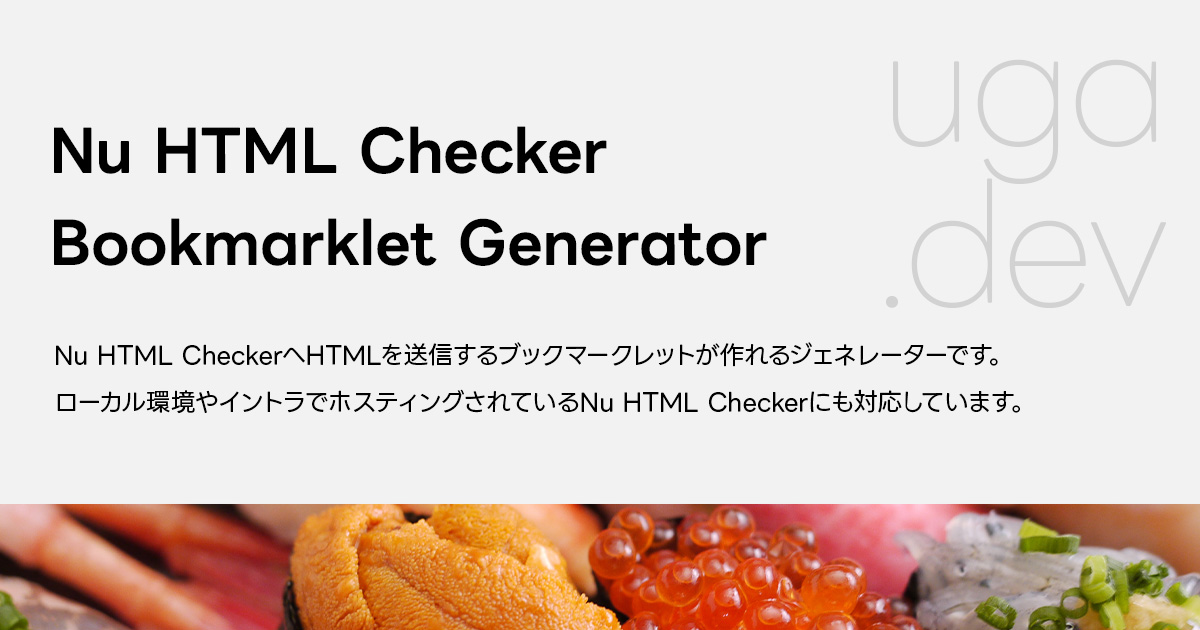
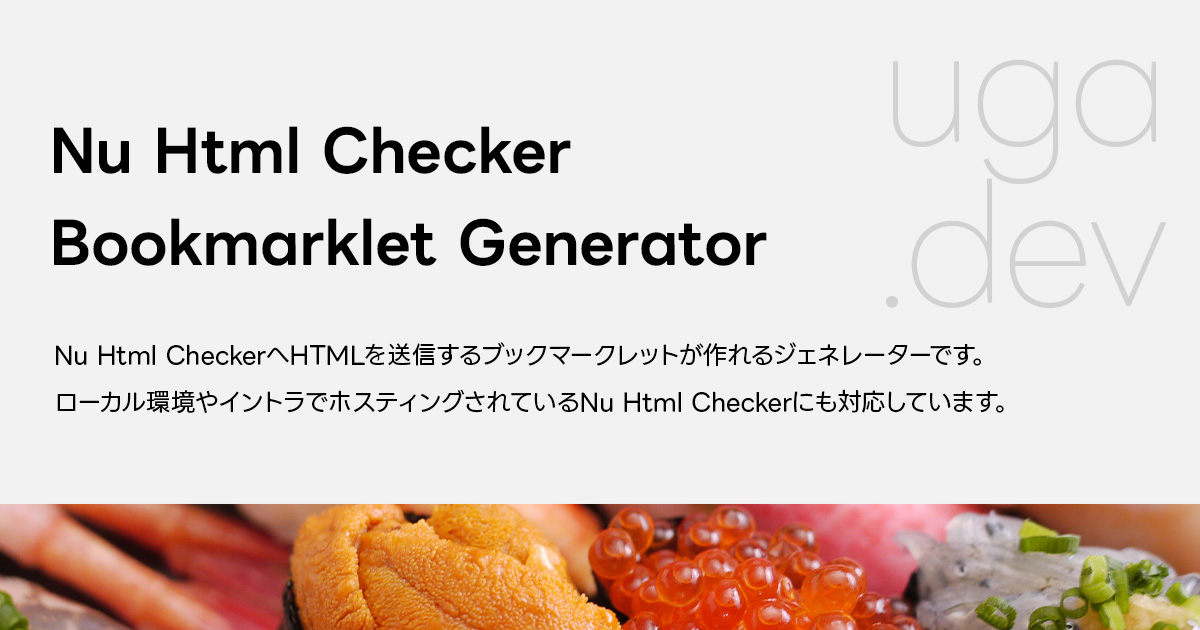
fix: move bookmarklet options to query params to apply on first response

Changed region(s): [[0.0925, 0.5429, 0.8633, 0.6635], [0.1542, 0.181, 0.5242, 0.3016]]

diff --git a/src/app/(ja)/(common)/tools/nu-bookmarklet-generator/Client/NuValidatorBookmarkletGenerator.tsx b/src/app/(ja)/(common)/tools/nu-bookmarklet-generator/Client/NuValidatorBookmarkletGenerator.tsx
@@ -30,19 +30,34 @@ const optionsValueMap: Record<keyof Options, string> = {
   level: 'warning',
 };
 
-const createBookmarklet = (url: string, type: 'ssr' | 'csr', options: Options) => {
-  const optionsString = objectKeys(options)
-    .map((optionName) => {
-      if (options[optionName]) {
-        return `f('${optionName}','${optionsValueMap[optionName]}');`;
-      }
-    })
-    .join('');
+const createBookmarklet = (argUrl: string, type: 'ssr' | 'csr', options: Options) => {
+  try {
+    const url = new URL(argUrl);
 
-  if (type === 'ssr') {
-    return `javascript:(async()=>{let a=document,b=await fetch(location.href).then(r=>r.text()),c=a.createElement('form'),f=(d,e)=>{let b=a.createElement('textarea');b.name=d;b.value=e;c.append(b)};c.method='POST';c.action='${url}';c.enctype='multipart/form-data';c.target='_blank';${optionsString}f('content',b);a.body.append(c);c.submit();c.remove()})()`;
+    objectKeys(options).forEach((optionName) => {
+      if (options[optionName]) {
+        url.searchParams.set(optionName, optionsValueMap[optionName]);
+      } else {
+        url.searchParams.delete(optionName);
+      }
+    });
+
+    const href = url.toString();
+    const optionsString = objectKeys(options)
+      .map((optionName) => {
+        if (options[optionName]) {
+          return `f('${optionName}','${optionsValueMap[optionName]}');`;
+        }
+      })
+      .join('');
+
+    if (type === 'ssr') {
+      return `javascript:(async()=>{let a=document,b=await fetch(location.href).then(r=>r.text()),c=a.createElement('form'),f=(d,e)=>{let b=a.createElement('textarea');b.name=d;b.value=e;c.append(b)};c.method='POST';c.action='${href}';c.enctype='multipart/form-data';c.target='_blank';${optionsString}f('content',b);a.body.append(c);c.submit();c.remove()})()`;
+    }
+    return `javascript:(()=>{let a=document,b=c=>{let d='';for(c=c.firstChild;c;c=c.nextSibling)switch(c.nodeType){case 1:d+=c.outerHTML;break;case 3:d+=c.nodeValue;break;case 4:d+='<![CDATA['+c.nodeValue+']]>';break;case 8:d+='<!--'+c.nodeValue+'-->';break;case 10:d+='<!DOCTYPE '+c.name+'>\\n'}return d},c=a.createElement('form'),f=(d,e)=>{let b=a.createElement('textarea');b.name=d;b.value=e;c.append(b)};c.method='POST';c.action='${href}';c.enctype='multipart/form-data';c.target='_blank';${optionsString}f('content',b(a));a.body.append(c);c.submit();c.remove()})()`;
+  } catch {
+    return 'URLが不正です。';
   }
-  return `javascript:(()=>{let a=document,b=c=>{let d='';for(c=c.firstChild;c;c=c.nextSibling)switch(c.nodeType){case 1:d+=c.outerHTML;break;case 3:d+=c.nodeValue;break;case 4:d+='<![CDATA['+c.nodeValue+']]>';break;case 8:d+='<!--'+c.nodeValue+'-->';break;case 10:d+='<!DOCTYPE '+c.name+'>\\n'}return d},c=a.createElement('form'),f=(d,e)=>{let b=a.createElement('textarea');b.name=d;b.value=e;c.append(b)};c.method='POST';c.action='${url}';c.enctype='multipart/form-data';c.target='_blank';${optionsString}f('content',b(a));a.body.append(c);c.submit();c.remove()})()`;
 };
 
 export const NuValidatorBookmarkletGenerator = () => {

diff --git a/src/constants/seo.ts b/src/constants/seo.ts
@@ -393,10 +393,10 @@ export const SEO: Record<
       'Slackのリマインダーコマンドを生成するためのツールです。\nリマインダーの内容・時間・繰り返しの設定を行うためのコマンドを生成できます。',
   },
   '/tools/nu-bookmarklet-generator': {
-    title: 'Nu HTML Checker Bookmarklet Generator',
+    title: 'Nu Html Checker Bookmarklet Generator',
     afterSubTitle: 'HTMLの品質をチェックするブックマークレット作成ツール',
     description:
-      'Nu HTML CheckerへHTMLを送信するブックマークレットが作れるジェネレーターです。\nローカル環境やイントラでホスティングされているNu HTML Checkerにも対応しています。',
+      'Nu Html CheckerへHTMLを送信するブックマークレットが作れるジェネレーターです。\nローカル環境やイントラでホスティングされているNu Html Checkerにも対応しています。',
   },
   '/tools/markup-dev-supporter': {
     title: 'HTMLでtable実装するときとかに役立つツール',